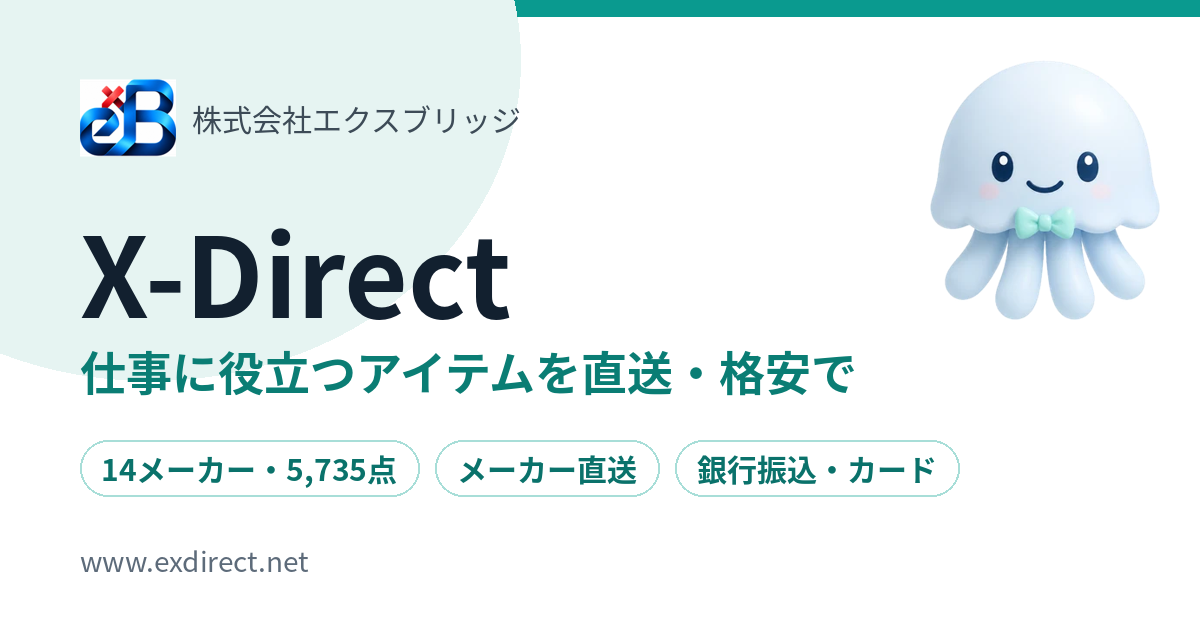
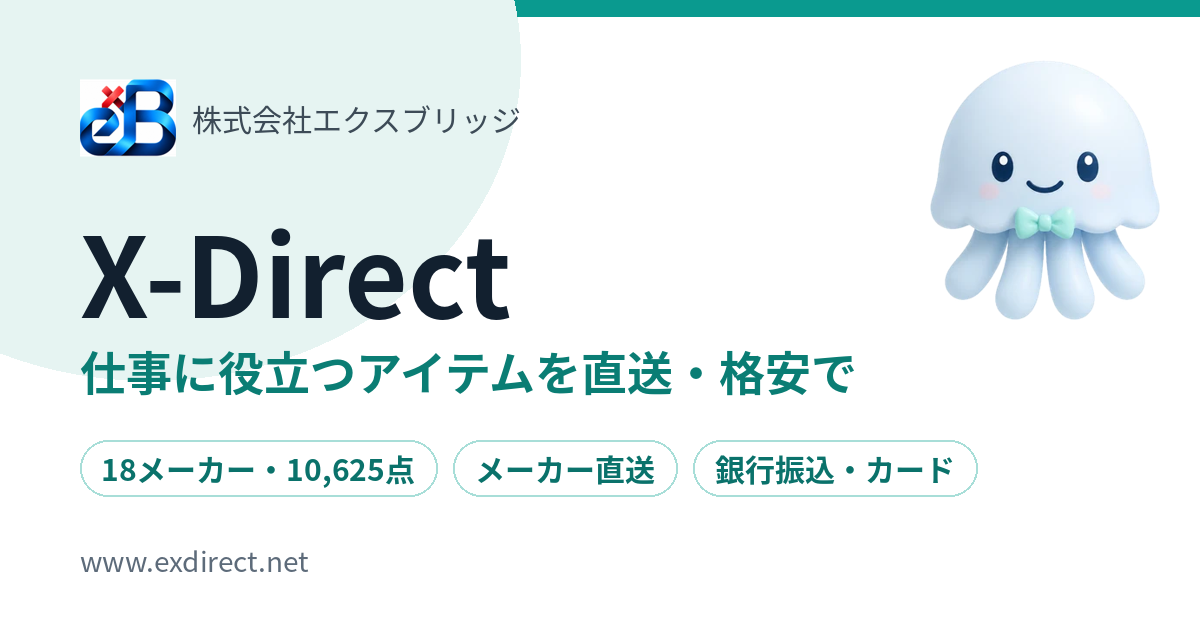
移行メーカーを後から足すスクリプト（既存の価格には触らない）・共有カードの数字を更新
2026-11-16 タクミナ・タカラ工業・淀川電機製作所・理研機器の4,891件を追加（18メーカー10,625点）。

Changed region(s): [[0.2158, 0.6937, 0.8017, 0.7841], [0.0925, 0.7238, 0.1233, 0.754]]

diff --git a/scripts/add_makers.py b/scripts/add_makers.py
@@ -1,0 +1,125 @@
+#!/usr/bin/env python3
+"""移行するメーカーを後から足す（2026-11-16）。
+
+  /usr/bin/python3 scripts/add_makers.py --db <shop.sqlite> "タクミナ=takumina" "タカラ工業=takara" ...
+
+import_ocnk.py --build は14社を全部作り直すので、そのあとに直した価格（平野製作所の値上げ・電菱の価格改定など）が
+おちゃのこの価格で上書きされてしまう。ここでは**指定したメーカーの商品だけを足し**、既存の商品には触らない。
+
+- メーカーは、おちゃのこの商品の groups の名前（括弧より前）で一致させ、group_id をそのまま makers.id にする
+- 足した商品は retired_products（取り扱い終了の控え）から消す（URLが「終了」から「販売中」に戻る）
+- 商品画像は旧サイトから落として img/<ハッシュ>.jpg で持つ。www.exdirect.net は切り替え済みなので、
+  おちゃのこのサーバー（210.224.191.42）を直接指定して取る
+"""
+import argparse
+import hashlib
+import io
+import os
+import re
+import sqlite3
+import subprocess
+import sys
+import time
+
+sys.path.insert(0, "/home/kojima/work/exdirect_net")
+sys.path.insert(0, os.path.dirname(os.path.abspath(__file__)))
+from ocnk_client import OcnkClient  # noqa: E402
+from import_ocnk import clean_description  # noqa: E402
+
+ROOT = os.path.dirname(os.path.dirname(os.path.abspath(__file__)))
+IMG = os.path.join(ROOT, "public", "img")
+OCNK_IP = "210.224.191.42"
+
+
+def base(name: str) -> str:
+    return re.split(r"[（(]", name or "")[0].strip()
+
+
+def fetch_image(url: str) -> str:
+    """旧サイトの画像を落として img/<ハッシュ>.jpg にする。失敗したら '' を返す。"""
+    from PIL import Image
+    fn = hashlib.sha1(url.encode()).hexdigest()[:16] + ".jpg"
+    out = os.path.join(IMG, fn)
+    if os.path.exists(out):
+        return "img/" + fn
+    host = re.match(r"https?://([^/]+)", url).group(1)
+    r = subprocess.run(["curl", "-s", "-f", "--max-time", "30", "--resolve", f"{host}:443:{OCNK_IP}", url],
+                       capture_output=True)
+    if r.returncode != 0 or len(r.stdout) < 200:
+        return ""
+    try:
+        im = Image.open(io.BytesIO(r.stdout)).convert("RGB")
+    except Exception:
+        return ""
+    im.thumbnail((800, 800))
+    im.save(out, "JPEG", quality=85, optimize=True)
+    return "img/" + fn
+
+
+def main():
+    ap = argparse.ArgumentParser()
+    ap.add_argument("--db", required=True)
+    ap.add_argument("makers", nargs="+", help="メーカー名=slug")
+    a = ap.parse_args()
+    want = dict(m.split("=", 1) for m in a.makers)
+    con = sqlite3.connect(a.db)
+    cur = con.cursor()
+    c = OcnkClient()
+    found, cats, gids = [], {}, {}
+    for p in c.iter_all("products", page_size=1000):
+        for g in (p.get("groups") or []):
+            if base(g.get("name")) in want:
+                gids[base(g["name"])] = g["id"]
+                found.append((p, g["id"]))
+                cat = p.get("category") or {}
+                if cat.get("id"):
+                    cats[cat["id"]] = (cat.get("name"), cat.get("parent_id"), cat.get("parent_name"))
+                break
+    print("見つかったメーカー:", gids)
+    missing = set(want) - set(gids)
+    if missing:
+        sys.exit(f"おちゃのこに見つからないメーカー: {missing}")
+    for name, gid in gids.items():
+        if cur.execute("SELECT 1 FROM makers WHERE id=?", (gid,)).fetchone():
+            sys.exit(f"{name}（{gid}）はもう登録済み")
+        sort = (cur.execute("SELECT COALESCE(MAX(sort),0) FROM makers").fetchone()[0] or 0) + 1
+        cur.execute("INSERT INTO makers (id,slug,name,sort) VALUES (?,?,?,?)", (gid, want[name], name, sort))
+    now = time.strftime("%Y-%m-%dT%H:%M:%S")
+    added = skipped = img_ok = img_ng = 0
+    for p, gid in found:
+        if cur.execute("SELECT 1 FROM products WHERE id=?", (p["id"],)).fetchone():
+            skipped += 1
+            continue
+        imgs = p.get("images") or []
+        src = next((i.get("url") for i in imgs if i.get("main")), None) or (imgs[0].get("url") if imgs else None)
+        img = ""
+        if src:
+            img = fetch_image(src)
+            if img:
+                img_ok += 1
+            else:
+                img_ng += 1
+        cat = p.get("category") or {}
+        cur.execute(
+            "INSERT INTO products (id,name,model_number,gtin,price,price_unspecified,list_price,stock,"
+            "stock_unlimited,hidden,category_id,maker_id,description,image_url,tax_reduce,updated_at,imported_at)"
+            " VALUES (?,?,?,?,?,?,?,?,?,?,?,?,?,?,?,?,?)",
+            (p["id"], p.get("name"), p.get("model_number"), p.get("gtin"), p.get("price"),
+             1 if p.get("price_unspecified") else 0, p.get("list_price"), p.get("stock"),
+             1 if p.get("stock_unlimited") else 0, 1 if p.get("hidden") else 0,
+             cat.get("id"), gid, clean_description(((p.get("description") or {}).get("text")) or ""),
+             img, 1 if p.get("tax_reduce") else 0, p.get("updated_at"), now))
+        cur.execute("DELETE FROM retired_products WHERE id=?", (p["id"],))
+        added += 1
+    for cid, (cname, pid, pname) in cats.items():
+        cur.execute("INSERT OR IGNORE INTO categories (id,name,parent_id,parent_name) VALUES (?,?,?,?)",
+                    (cid, cname, pid, pname))
+    con.commit()
+    print(f"足した商品 {added} / もうあった {skipped} / 画像 取れた {img_ok}・取れない {img_ng}")
+    for name, gid in gids.items():
+        n, h = cur.execute("SELECT COUNT(*), SUM(hidden) FROM products WHERE maker_id=?", (gid,)).fetchone()
+        print(f"  {name}（group {gid}・/maker/{want[name]}）: {n}件（非表示 {h}）")
+
+
+if __name__ == "__main__":
+    main()
